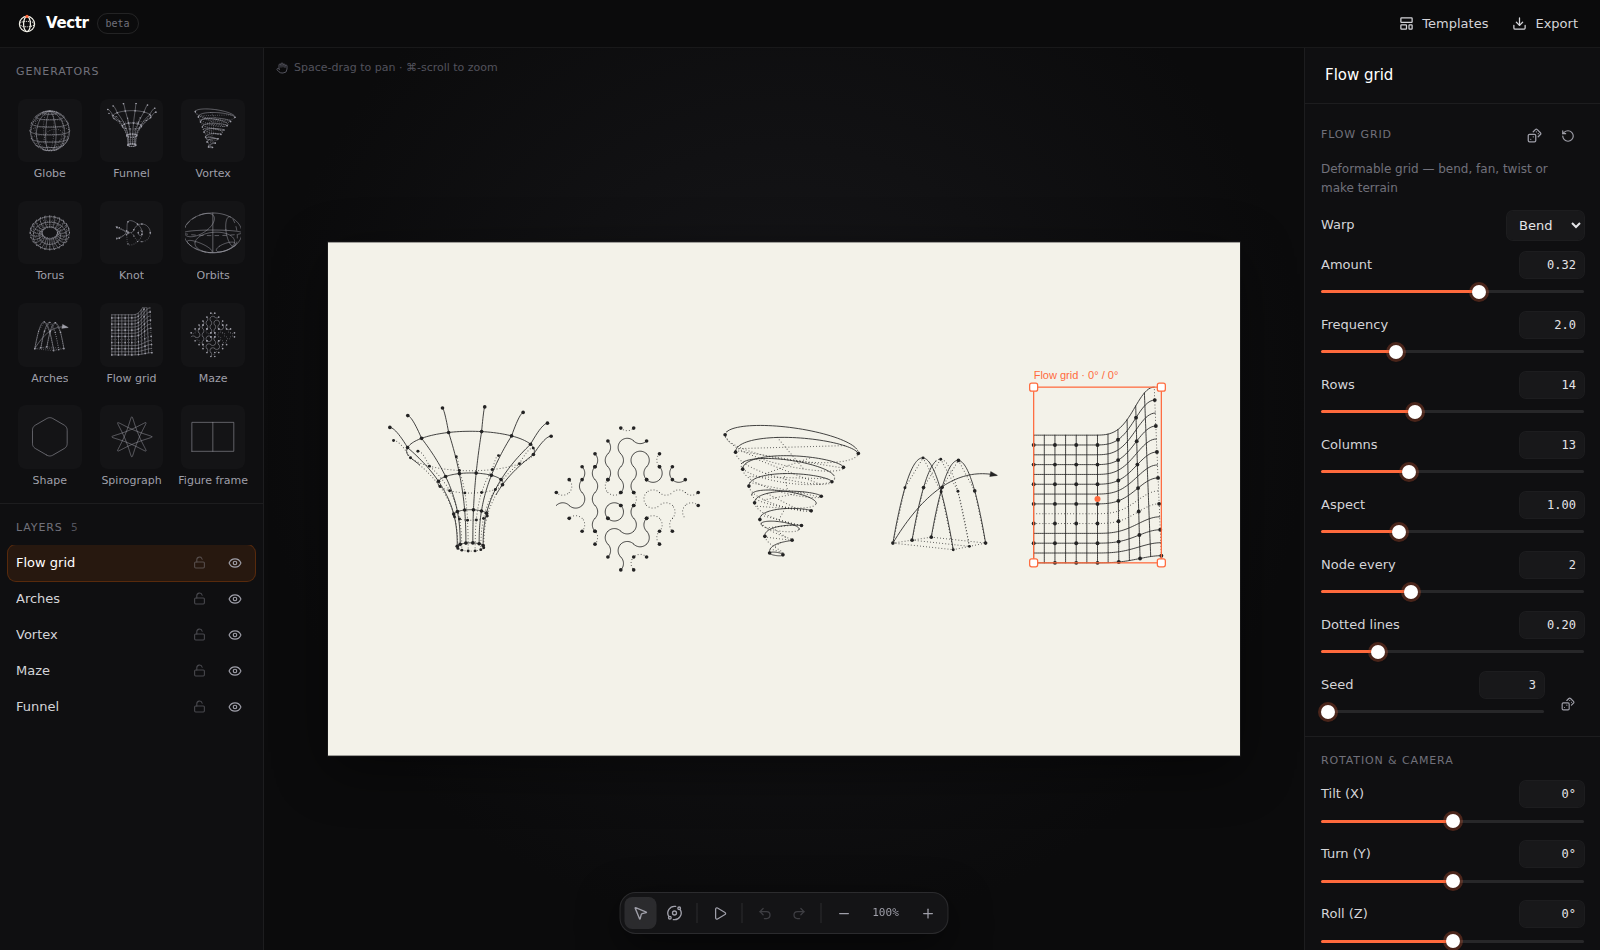
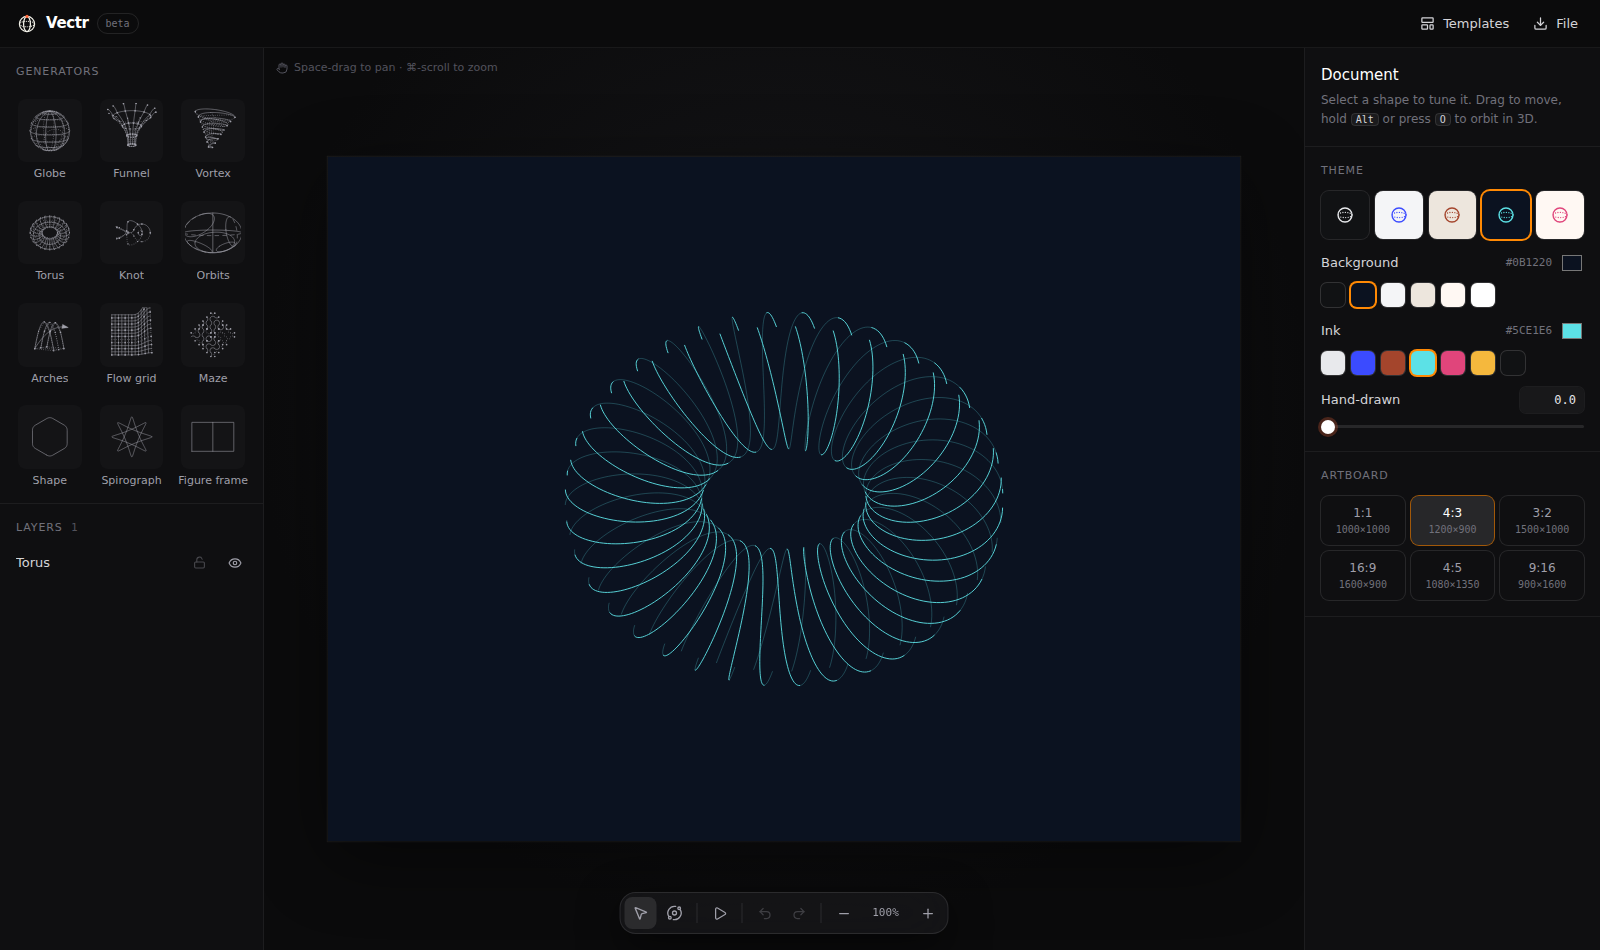
Remove reference-derived templates, text and palettes
Drop the specimen, globe, figure and icon templates, the default figure
labels copied from reference material, and the paper/chalk palettes.
New themes: graphite, signal, kiln, ozone, bloom. New starter design.

Claude-Session: https://claude.ai/code/session_01TPJKz9BuSTythDaiXA6jX3

diff --git a/packages/mcp/test/server.test.ts b/packages/mcp/test/server.test.ts
@@ -51,16 +51,16 @@ describe('tool surface', () => {
 
 describe('design lifecycle', () => {
   it('creates from a template with a PNG preview and short layer ids', async () => {
-    const r = await call('vectr_create_design', { template: 'specimen', name: 'Row' });
+    const r = await call('vectr_create_design', { template: 'starter', name: 'Row' });
     expect(r.isError).toBeFalsy();
     const png = Buffer.from(imageOf(r)!.data, 'base64');
     expect(png.subarray(1, 4).toString()).toBe('PNG');
-    expect(textOf(r)).toMatch(/\*\*Row\*\* \(id `d1`\) · 1600×900 · theme paper/);
-    expect(textOf(r)).toMatch(/`L1` \*\*revolve\*\*/);
+    expect(textOf(r)).toMatch(/\*\*Row\*\* \(id `d1`\) · 1200×900 · theme ozone/);
+    expect(textOf(r)).toMatch(/`L1` \*\*torus\*\*/);
   });
 
   it('applies an atomic update and reports corrections instead of failing', async () => {
-    await call('vectr_create_design', { settings: { theme: 'chalk', width: 1000, height: 1000 }, preview: false });
+    await call('vectr_create_design', { settings: { theme: 'graphite', width: 1000, height: 1000 }, preview: false });
     const r = await call('vectr_update_design', {
       design_id: 'd1',
       add_layers: [
@@ -70,7 +70,7 @@ describe('design lifecycle', () => {
       preview: false,
     });
     expect(textOf(r)).toMatch(/unknown param "rigns"/);
-    expect(r.structuredContent).toMatchObject({ design_id: 'd1', design: { background: '#050505', layers: [{ id: 'L1', params: { meridians: 9 } }, { id: 'L2' }] } });
+    expect(r.structuredContent).toMatchObject({ design_id: 'd1', design: { background: '#111214', layers: [{ id: 'L1', params: { meridians: 9 } }, { id: 'L2' }] } });
 
     const r2 = await call('vectr_update_design', {
       design_id: 'd1',
@@ -90,18 +90,18 @@ describe('design lifecycle', () => {
   });
 
   it('gives actionable errors', async () => {
-    const r = await call('vectr_update_design', { design_id: 'd7', set: { theme: 'chalk' } });
+    const r = await call('vectr_update_design', { design_id: 'd7', set: { theme: 'graphite' } });
     expect(r.isError).toBe(true);
     expect(textOf(r)).toMatch(/Create one with vectr_create_design/);
-    const both = await call('vectr_create_design', { template: 'globe', design: {} });
+    const both = await call('vectr_create_design', { template: 'starter', design: {} });
     expect(textOf(both)).toMatch(/only one source/);
   });
 
   it('lists, inspects and deletes designs', async () => {
-    await call('vectr_create_design', { template: 'icons', preview: false });
-    expect(textOf(await call('vectr_list_designs'))).toMatch(/`d1` Design 1: 1200×900, 6 layers/);
+    await call('vectr_create_design', { design: { layers: [{ type: 'shape' }, { type: 'knot' }] }, preview: false });
+    expect(textOf(await call('vectr_list_designs'))).toMatch(/`d1` Design 1: 1200×900, 2 layers/);
     const json = JSON.parse(textOf(await call('vectr_get_design', { design_id: 'd1', response_format: 'json' })));
-    expect(json.layers).toHaveLength(6);
+    expect(json.layers).toHaveLength(2);
     await call('vectr_delete_design', { design_id: 'd1' });
     expect(textOf(await call('vectr_list_designs'))).toMatch(/No designs yet/);
   });
@@ -109,18 +109,18 @@ describe('design lifecycle', () => {
 
 describe('import and export', () => {
   it('round-trips through a share link', async () => {
-    await call('vectr_create_design', { template: 'figure', preview: false });
+    await call('vectr_create_design', { template: 'starter', preview: false });
     const url = textOf(await call('vectr_export_design', { design_id: 'd1', format: 'link' }));
     expect(url.startsWith('https://vectr.example/#d=v1.')).toBe(true);
     const { doc } = await decodeDoc(url.split('#')[1]);
-    expect(docToSVG(doc)).toBe(docToSVG(TEMPLATES.find((t) => t.id === 'figure')!.build()));
+    expect(docToSVG(doc)).toBe(docToSVG(TEMPLATES.find((t) => t.id === 'starter')!.build()));
 
     const reopened = await call('vectr_create_design', { share_link: url, preview: false });
-    expect(textOf(reopened)).toMatch(/`d2`[\s\S]*\*\*orbits\*\*/);
+    expect(textOf(reopened)).toMatch(/`d2`[\s\S]*\*\*torus\*\*/);
   });
 
   it('writes files inside the allowed folder and opens projects from it', async () => {
-    await call('vectr_create_design', { template: 'globe', preview: false });
+    await call('vectr_create_design', { template: 'starter', preview: false });
     for (const [format, file] of [['svg', 'out/globe.svg'], ['png', 'out/globe.png'], ['json', 'out/globe.json']]) {
       const r = await call('vectr_export_design', { design_id: 'd1', format, file_path: file, png_scale: 0.5 });
       expect(r.isError).toBeFalsy();
@@ -128,13 +128,13 @@ describe('import and export', () => {
     }
     expect(readFileSync(join(root, 'out/globe.svg'), 'utf8')).toMatch(/^<svg xmlns/);
     const r = await call('vectr_create_design', { file_path: 'out/globe.json', preview: false });
-    expect(textOf(r)).toMatch(/`d2`[\s\S]*\*\*sphere\*\*/);
+    expect(textOf(r)).toMatch(/`d2`[\s\S]*\*\*torus\*\*/);
   });
 
   it('returns small SVG inline and refuses oversized inline output', async () => {
     await call('vectr_create_design', { design: { layers: [{ type: 'shape' }] }, preview: false });
     expect(textOf(await call('vectr_export_design', { design_id: 'd1', format: 'svg' }))).toMatch(/^<svg/);
-    await call('vectr_create_design', { template: 'specimen', preview: false });
+    await call('vectr_create_design', { design: { layers: [{ type: 'torus', params: { tubes: 48, loops: 24 } }, { type: 'grid', params: { rows: 40, cols: 40 } }, { type: 'sphere', params: { meridians: 24, parallels: 24 } }] }, preview: false });
     const big = await call('vectr_export_design', { design_id: 'd2', format: 'svg' });
     expect(big.isError).toBe(true);
     expect(textOf(big)).toMatch(/Pass file_path/);
@@ -177,7 +177,7 @@ describe('stdio binary', () => {
     });
     const c = new Client({ name: 'stdio-test', version: '1.0.0' });
     await c.connect(transport);
-    const r = (await c.callTool({ name: 'vectr_create_design', arguments: { template: 'globe', preview_width: 200 } })) as CallToolResult;
+    const r = (await c.callTool({ name: 'vectr_create_design', arguments: { template: 'starter', preview_width: 200 } })) as CallToolResult;
     expect(r.content.some((x) => x.type === 'image')).toBe(true);
     await c.close();
   }, 60_000);

diff --git a/packages/core/src/templates.ts b/packages/core/src/templates.ts
@@ -10,11 +10,11 @@ export interface Theme {
 }
 
 export const THEMES: Theme[] = [
-  { id: 'paper', name: 'Paper', background: '#F3F2E9', ink: '#232323', rough: 0 },
-  { id: 'chalk', name: 'Chalk', background: '#050505', ink: '#E6E6E3', rough: 2.2 },
-  { id: 'mono', name: 'Mono', background: '#F0F0F0', ink: '#0A0A0A', rough: 0 },
-  { id: 'blueprint', name: 'Blueprint', background: '#173152', ink: '#D8E6F7', rough: 0 },
-  { id: 'ember', name: 'Ember', background: '#0E0E10', ink: '#FF6A3D', rough: 0 },
+  { id: 'graphite', name: 'Graphite', background: '#111214', ink: '#E8E9EC', rough: 0 },
+  { id: 'signal', name: 'Signal', background: '#F4F5F7', ink: '#3B4BFF', rough: 0 },
+  { id: 'kiln', name: 'Kiln', background: '#EDE6DD', ink: '#A4452C', rough: 0 },
+  { id: 'ozone', name: 'Ozone', background: '#0B1220', ink: '#5CE1E6', rough: 0 },
+  { id: 'bloom', name: 'Bloom', background: '#FFF8F3', ink: '#E0457B', rough: 0 },
 ];
 
 export interface Template {
@@ -30,61 +30,18 @@ const withTheme = (id: string, width: number, height: number, layers: Layer[]): 
 
 export const TEMPLATES: Template[] = [
   {
-    id: 'specimen',
-    name: 'Specimen row',
+    id: 'starter',
+    name: 'Twisted torus',
     build: () =>
-      withTheme('paper', 1600, 900, [
-        createLayer('revolve', { x: 250, y: 450 }, { scale: 118 }),
-        createLayer('truchet', { x: 525, y: 450 }, { scale: 96, params: { seed: 11 } }),
-        createLayer('vortex', { x: 800, y: 450 }, { scale: 118 }),
-        createLayer('arches', { x: 1075, y: 450 }, { scale: 112 }),
-        createLayer('grid', { x: 1350, y: 450 }, { scale: 112, style: { nodeSize: 3.4 } as never }),
-      ]),
-  },
-  {
-    id: 'globe',
-    name: 'Chalk globe',
-    build: () =>
-      withTheme('chalk', 1000, 1000, [
-        createLayer('sphere', { x: 500, y: 500 }, {
-          scale: 330, spin: 12,
-          params: { meridians: 7, parallels: 8, rings: 2, ringSize: 0.42, seed: 4 },
-          style: { back: 'solid', width: 1.1, nodes: false } as never,
+      withTheme('ozone', 1200, 900, [
+        createLayer('torus', { x: 600, y: 450 }, {
+          scale: 300, rx: -52, ry: 18, spin: 10,
+          params: { major: 0.66, minor: 0.3, tubes: 36, loops: 0, twist: 2.5 },
+          style: { back: 'faded', width: 1.2, nodes: false } as never,
         }),
       ]),
   },
-  {
-    id: 'figure',
-    name: 'Figure plate',
-    build: () =>
-      withTheme('chalk', 1200, 900, [
-        createLayer('frame', { x: 600, y: 440 }, { scale: 330, style: { labelSize: 10, width: 1 } as never }),
-        createLayer('orbits', { x: 600, y: 440 }, { scale: 330, style: { labelSize: 10, width: 1.1 } as never }),
-      ]),
-  },
-  {
-    id: 'icons',
-    name: 'Icon set',
-    build: () => {
-      const kinds: [string, Record<string, number | string | boolean>][] = [
-        ['squircle', { round: 0.55 }],
-        ['polygon', { sides: 6, round: 0.3 }],
-        ['star', { sides: 5, inner: 0.5, round: 0.25 }],
-        ['circle', { echoes: 3, spacing: 0.28, alternate: true }],
-        ['flower', { sides: 6, inner: 0.35 }],
-        ['blob', { inner: 0.6, seed: 9 }],
-      ];
-      return withTheme('mono', 1200, 900, kinds.map(([kind, extra], i) =>
-        createLayer('shape', { x: 300 + (i % 3) * 300, y: 300 + Math.floor(i / 3) * 300 }, {
-          name: kind[0].toUpperCase() + kind.slice(1),
-          scale: 64,
-          params: { kind, ...extra },
-          style: { width: 6, nodes: false } as never,
-        }),
-      ));
-    },
-  },
-  { id: 'blank', name: 'Blank canvas', build: () => withTheme('paper', 1200, 900, []) },
+  { id: 'blank', name: 'Blank canvas', build: () => withTheme('graphite', 1200, 900, []) },
 ];
 
 export const ARTBOARD_SIZES = [

diff --git a/packages/core/test/schema.test.ts b/packages/core/test/schema.test.ts
@@ -9,9 +9,9 @@ import {
 
 describe('parseDoc', () => {
   it('turns a minimal agent spec into a full design', () => {
-    const { doc, warnings } = parseDoc({ theme: 'chalk', layers: [{ type: 'sphere', params: { rings: 3 } }] });
+    const { doc, warnings } = parseDoc({ theme: 'ozone', layers: [{ type: 'sphere', params: { rings: 3 } }] });
     expect(warnings).toEqual([]);
-    expect(doc.background).toBe('#050505');
+    expect(doc.background).toBe('#0B1220');
     expect(doc.layers[0]).toMatchObject({ type: 'sphere', x: 600, y: 450, visible: true });
     expect(doc.layers[0].params).toMatchObject({ rings: 3, meridians: 6 });
   });
@@ -20,7 +20,7 @@ describe('parseDoc', () => {
     const t = TEMPLATES[0].build();
     const { doc } = parseDoc(serializeDoc(t));
     expect(doc.layers.map((l) => l.id)).toEqual(t.layers.map((l) => l.id));
-    expect(doc.layers[2].params).toEqual(t.layers[2].params);
+    expect(doc.layers[0].params).toEqual(t.layers[0].params);
   });
 
   it('corrects bad values and explains what it did', () => {
@@ -47,7 +47,7 @@ describe('parseDoc', () => {
       background: '"/><script>alert(1)</script>',
       layers: [{ type: 'shape', style: { stroke: 'red" onload="x' } }],
     });
-    expect(doc.background).toBe('#F3F2E9');
+    expect(doc.background).toBe('#111214');
     expect(doc.layers[0].style.stroke).toBeNull();
     expect(warnings).toHaveLength(2);
   });
@@ -125,7 +125,7 @@ describe('cli', () => {
   it('prints templates that render back to the same art', () => {
     const dir = mkdtempSync(join(tmpdir(), 'vectr-'));
     const file = join(dir, 'fig.json');
-    writeFileSync(file, run(['template', 'figure']));
-    expect(run(['render', file]).trim()).toBe(docToSVG(TEMPLATES.find((t) => t.id === 'figure')!.build()));
+    writeFileSync(file, run(['template', 'starter']));
+    expect(run(['render', file]).trim()).toBe(docToSVG(TEMPLATES.find((t) => t.id === 'starter')!.build()));
   });
 });

diff --git a/src/components/Inspector.tsx b/src/components/Inspector.tsx
@@ -5,7 +5,7 @@ import type { BackStyle, Layer } from '@vectr/core';
 import { selectedLayer, useStore } from '../store';
 import { ColorField, IconButton, Section, Segmented, Select, Slider, TextField, Toggle } from './controls';
 
-const SWATCHES = ['#232323', '#F3F2E9', '#FF6A3D', '#2F6BFF', '#1FA37A', '#E8B931', '#B04BE0'];
+const SWATCHES = ['#E8E9EC', '#3B4BFF', '#A4452C', '#5CE1E6', '#E0457B', '#F5B83D', '#111214'];
 
 const BACK_OPTIONS: { value: BackStyle; label: string; icon: JSX.Element }[] = [
   { value: 'dotted', label: 'Dotted', icon: <LineGlyph dash="0 3.2" /> },
@@ -148,7 +148,7 @@ function DocInspector() {
             );
           })}
         </div>
-        <ColorField label="Background" value={doc.background} swatches={['#F3F2E9', '#F0F0F0', '#FFFFFF', '#050505', '#173152', '#0E0E10']} onChange={(v) => set({ background: v ?? doc.background }, 'bg')} />
+        <ColorField label="Background" value={doc.background} swatches={['#111214', '#0B1220', '#F4F5F7', '#EDE6DD', '#FFF8F3', '#FFFFFF']} onChange={(v) => set({ background: v ?? doc.background }, 'bg')} />
         <ColorField label="Ink" value={doc.ink} swatches={SWATCHES} onChange={(v) => set({ ink: v ?? doc.ink }, 'ink')} />
         <Slider label="Hand-drawn" min={0} max={8} step={0.1} value={doc.rough} onChange={(v) => set({ rough: v }, 'rough')} />
       </Section>

diff --git a/packages/mcp/src/server.ts b/packages/mcp/src/server.ts
@@ -96,7 +96,7 @@ const DocSettings = z
     width: z.number().optional().describe('Artboard width in px, 64–8000'),
     height: z.number().optional().describe('Artboard height in px, 64–8000'),
     theme: z.enum(THEMES.map((t) => t.id) as [string, ...string[]]).optional().describe('Sets background, ink and roughness together'),
-    background: z.string().optional().describe('Background colour, e.g. "#050505"'),
+    background: z.string().optional().describe('Background colour, e.g. "#111214"'),
     ink: z.string().optional().describe('Default line colour'),
     rough: z.number().optional().describe('Hand-drawn wobble, 0 (crisp) – 20'),
   })
@@ -149,7 +149,7 @@ Returns markdown by default, or JSON (response_format="json") with one entry per
 
 Choose at most one source (omit all for a blank canvas):
   - template: a starter composition (${TEMPLATES.map((t) => t.id).join(', ')})
-  - design: a JSON design, e.g. { "theme": "chalk", "width": 1000, "height": 1000, "layers": [{ "type": "sphere", "rx": 15 }] }
+  - design: a JSON design, e.g. { "theme": "ozone", "width": 1000, "height": 1000, "layers": [{ "type": "sphere", "rx": 15 }] }
   - share_link: a Vectr link or code containing "#d=v1.…"
   - file_path: a saved Vectr project (.json) inside the allowed folders
 "settings" (theme, size, colours) is applied on top of the source.

diff --git a/packages/core/src/generators/planar.ts b/packages/core/src/generators/planar.ts
@@ -378,10 +378,10 @@ export const frame: Generator = {
     ] },
     { key: 'ticks', label: 'Ruler ticks', kind: 'range', min: 0, max: 40, step: 1 },
     { key: 'corners', label: 'Registration marks', kind: 'toggle' },
-    { key: 'fig', label: 'Figure label', kind: 'text', placeholder: 'FIG. 062.' },
+    { key: 'fig', label: 'Figure label', kind: 'text', placeholder: 'Optional' },
     { key: 'caption', label: 'Caption', kind: 'text', placeholder: 'Optional' },
   ],
-  defaults: { aspect: 1.45, crosshair: 'vertical', ticks: 0, corners: false, fig: 'FIG. 062.', caption: '' },
+  defaults: { aspect: 1.45, crosshair: 'vertical', ticks: 0, corners: false, fig: '', caption: '' },
   style: { width: 1, nodes: false },
   build(p) {
     const a = num(p, 'aspect');

diff --git a/src/store.ts b/src/store.ts
@@ -157,7 +157,7 @@ export const useStore = create<State>((set, get) => ({
     const t = TEMPLATES.find((x) => x.id === id);
     if (!t) return;
     get().commit(() => t.build());
-    set({ selectedId: null, playing: id === 'globe' });
+    set({ selectedId: null, playing: TEMPLATES.find((t) => t.id === id)!.build().layers.some((l) => l.spin !== 0) });
   },
   importDoc(input) {
     const { doc, warnings } = parseDoc(input);

diff --git a/packages/core/src/cli.ts b/packages/core/src/cli.ts
@@ -12,7 +12,7 @@ Usage
   vectr generators                                Print every generator and its params as JSON
 
 A design is JSON. Everything except layer "type" is optional:
-  { "theme": "chalk", "width": 1000, "height": 1000,
+  { "theme": "ozone", "width": 1000, "height": 1000,
     "layers": [{ "type": "sphere", "rx": 15, "ry": 30, "params": { "rings": 3 } }] }
 Themes: ${THEMES.map((t) => t.id).join(', ')}
 

diff --git a/packages/core/src/generators/spatial.ts b/packages/core/src/generators/spatial.ts
@@ -312,7 +312,7 @@ export const orbits: Generator = {
   ],
   defaults: {
     rings: 5, minSize: 0.35, maxSize: 0.8, stretch: 1.45, shell: true, equator: true, axis: true,
-    labels: 'SQNESM-2; LATENT DIM. [1,3]; ANGULAR DIST. 78°', seed: 62,
+    labels: '', seed: 62,
   },
   transform: { rx: -8, ry: 0 },
   style: { back: 'dashed', nodes: false },

diff --git a/packages/core/README.md b/packages/core/README.md
@@ -11,7 +11,7 @@ import { parseDoc, docToSVG, describeGenerators, encodeDoc } from '@vectr/core';
 
 // 1. Describe a design. Only layer `type` is required; everything else has defaults.
 const { doc, warnings } = parseDoc({
-  theme: 'paper',                  // paper | chalk | mono | blueprint | ember
+  theme: 'signal',                 // graphite | signal | kiln | ozone | bloom
   width: 1200, height: 900,
   layers: [
     { type: 'revolve', x: 400, y: 450, scale: 180, rx: -18, params: { profile: 'vase' } },
@@ -41,7 +41,7 @@ const code = await encodeDoc(doc);   // → "v1.…", use as https://your-vectr/
 ```jsonc
 {
   "width": 1200, "height": 900,          // 64–8000
-  "theme": "chalk",                      // or set "background" / "ink" colours directly
+  "theme": "ozone",                      // or set "background" / "ink" colours directly
   "rough": 2,                            // hand-drawn wobble, 0–20
   "layers": [{
     "type": "sphere",                    // run `vectr generators` for the full list
@@ -66,7 +66,7 @@ const code = await encodeDoc(doc);   // → "v1.…", use as https://your-vectr/
 vectr render <design.json | ->  [-o out.svg]
 vectr check  <design.json | ->          # prints the normalised design
 vectr link   <design.json | ->  [--base URL]
-vectr template <specimen | globe | figure | icons | blank>
+vectr template <starter | blank>
 vectr generators
 ```
 

diff --git a/README.md b/README.md
@@ -44,7 +44,7 @@ orbit it in 3D, export clean SVG.
 
 [`packages/mcp`](packages/mcp) is an MCP server. Run `npm run mcp` once, then start
 Claude Code in this repo; `.mcp.json` registers it. Ask for something like *"make a
-chalk poster with a globe and a twisted torus in a figure frame"* and Claude will build
+dark poster with a twisted torus orbiting a knot"* and Claude will build
 it, check the previews, and give you a link that opens it in the
 [live app](https://vectr-eight.vercel.app). See
 [packages/mcp/README.md](packages/mcp/README.md) for Claude Desktop setup and the tool list.
@@ -57,7 +57,7 @@ everything except each layer's `type` is optional:
 
 ```bash
 npm run build -w @vectr/core
-echo '{"theme":"chalk","layers":[{"type":"sphere","rx":15,"params":{"rings":3}}]}' \
+echo '{"theme":"ozone","layers":[{"type":"sphere","rx":15,"params":{"rings":3}}]}' \
   | npm run -s vectr -- render - -o globe.svg     # SVG file
 npm run -s vectr -- link design.json               # link that opens it in the app
 npm run -s vectr -- generators                     # every shape type and param, as JSON
